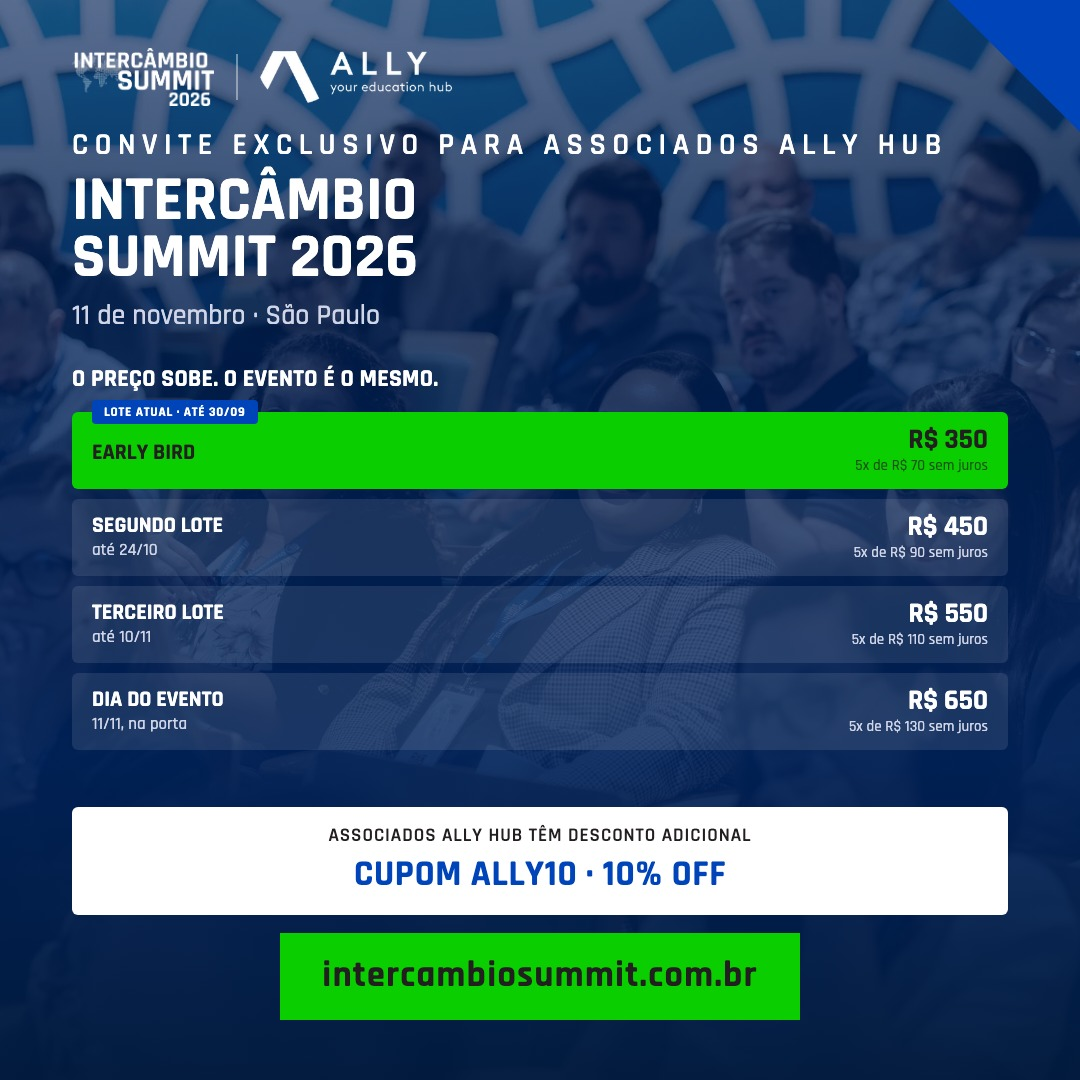
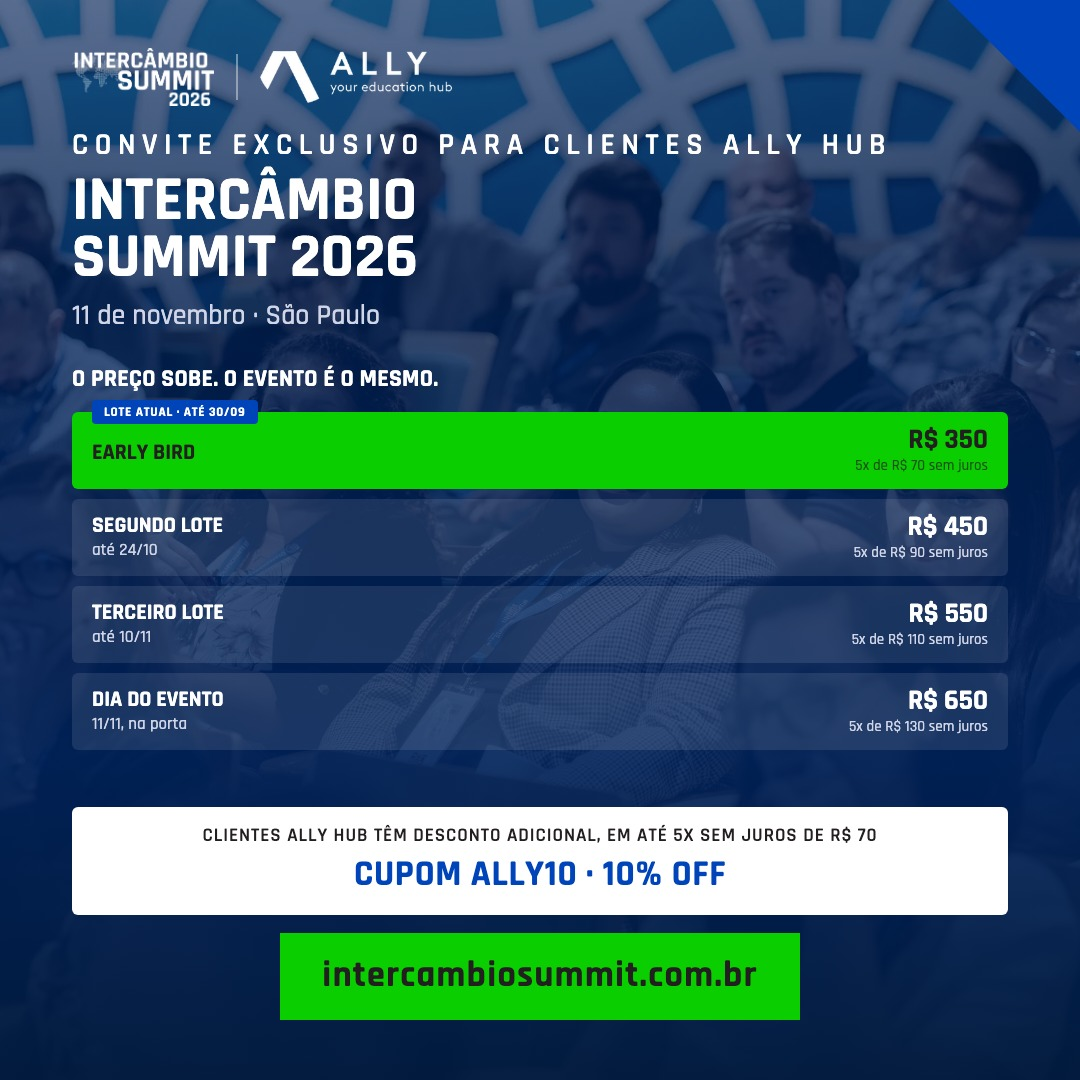
Ajusta wording para Ally Hub e Edvisor: cliente em vez de associado, com menção a 5x sem juros

Changed region(s): [[0.1833, 0.7639, 0.825, 0.7944], [0.4889, 0.1222, 0.8861, 0.1528]]

diff --git a/criativos/templates/convite-parceiro-precos-whatsapp.html b/criativos/templates/convite-parceiro-precos-whatsapp.html
@@ -70,7 +70,7 @@
       <img class="parceiro" src="{{LOGO_PARCEIRO}}" alt="{{NOME_PARCEIRO}}">
     </div>
 
-    <p class="eyebrow-conv eyebrow">Convite exclusivo para associados {{NOME_PARCEIRO}}</p>
+    <p class="eyebrow-conv eyebrow">Convite exclusivo para {{PUBLICO}} {{NOME_PARCEIRO}}</p>
     <h1 class="titulo-conv titulo-hero">INTERCÂMBIO<br>SUMMIT 2026</h1>
     <p class="quando-conv">11 de novembro · São Paulo</p>
 
@@ -97,7 +97,7 @@
 
     <div class="rodape-conv">
       <div class="caixa-cupom">
-        <span class="legenda">Associados {{NOME_PARCEIRO}} têm desconto adicional</span>
+        <span class="legenda">{{LEGENDA_CUPOM}}</span>
         <span class="codigo">Cupom {{CUPOM}} · 10% OFF</span>
       </div>
       <span class="cta">intercambiosummit.com.br</span>
